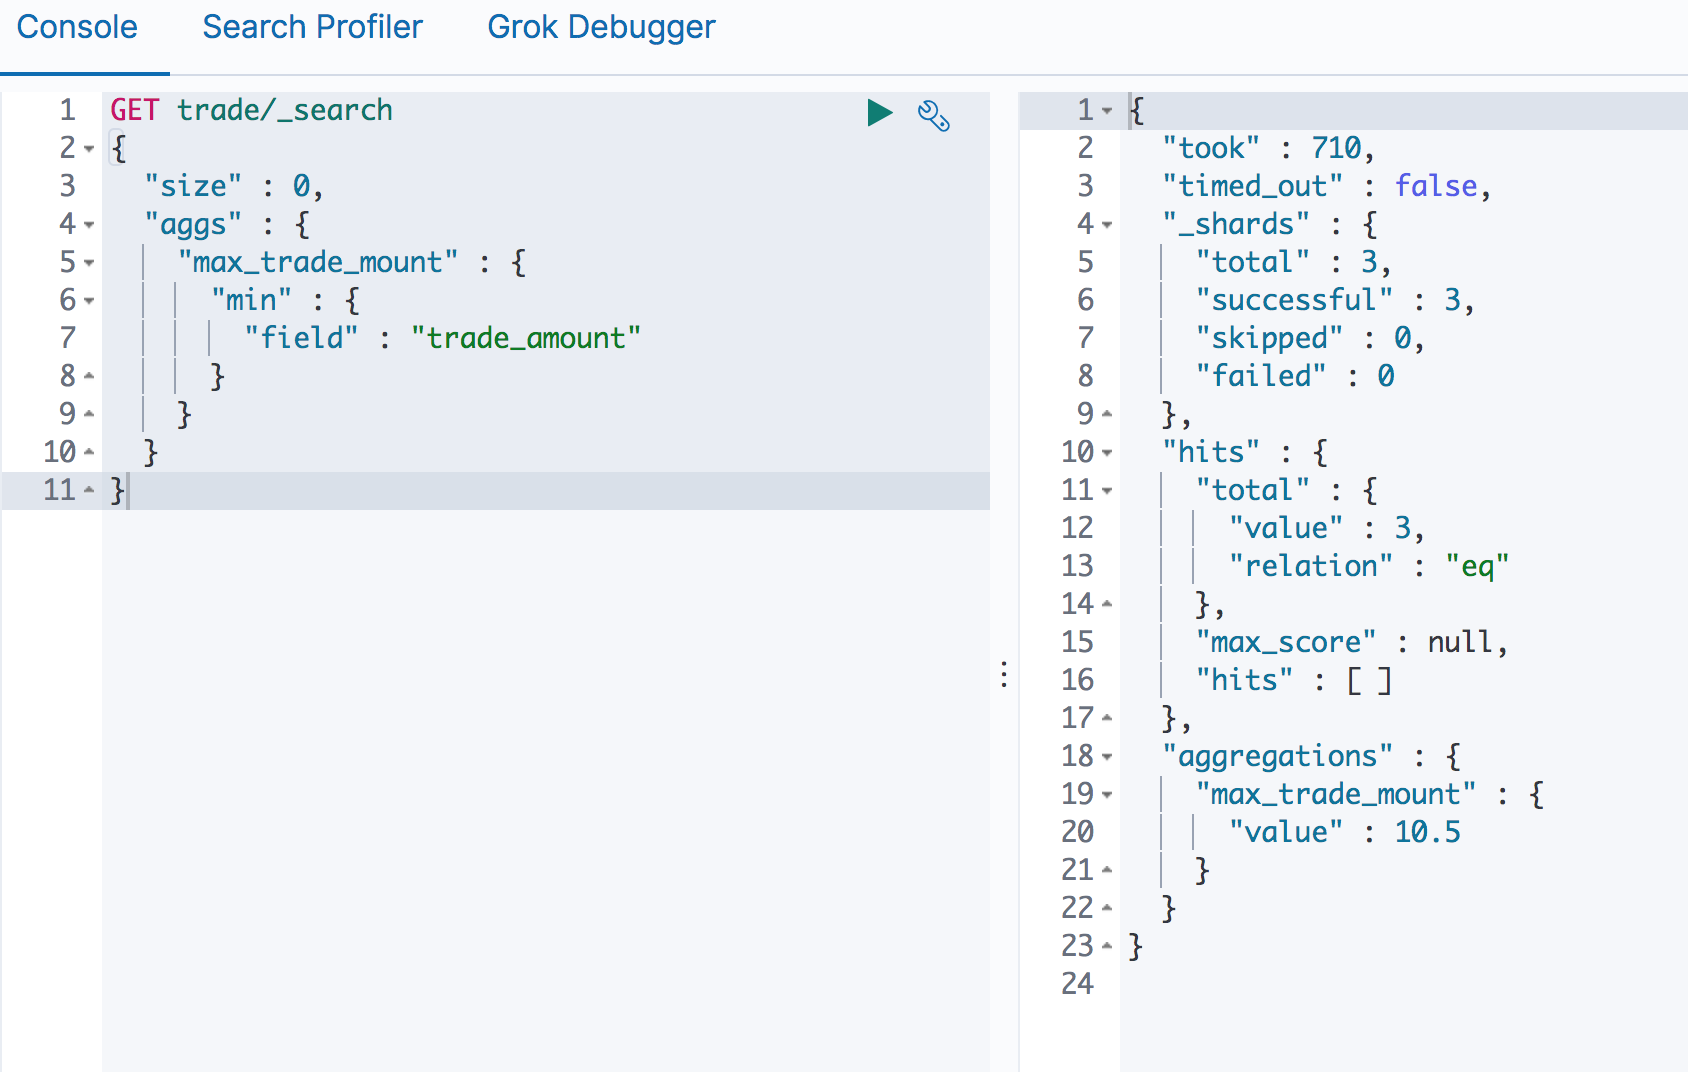
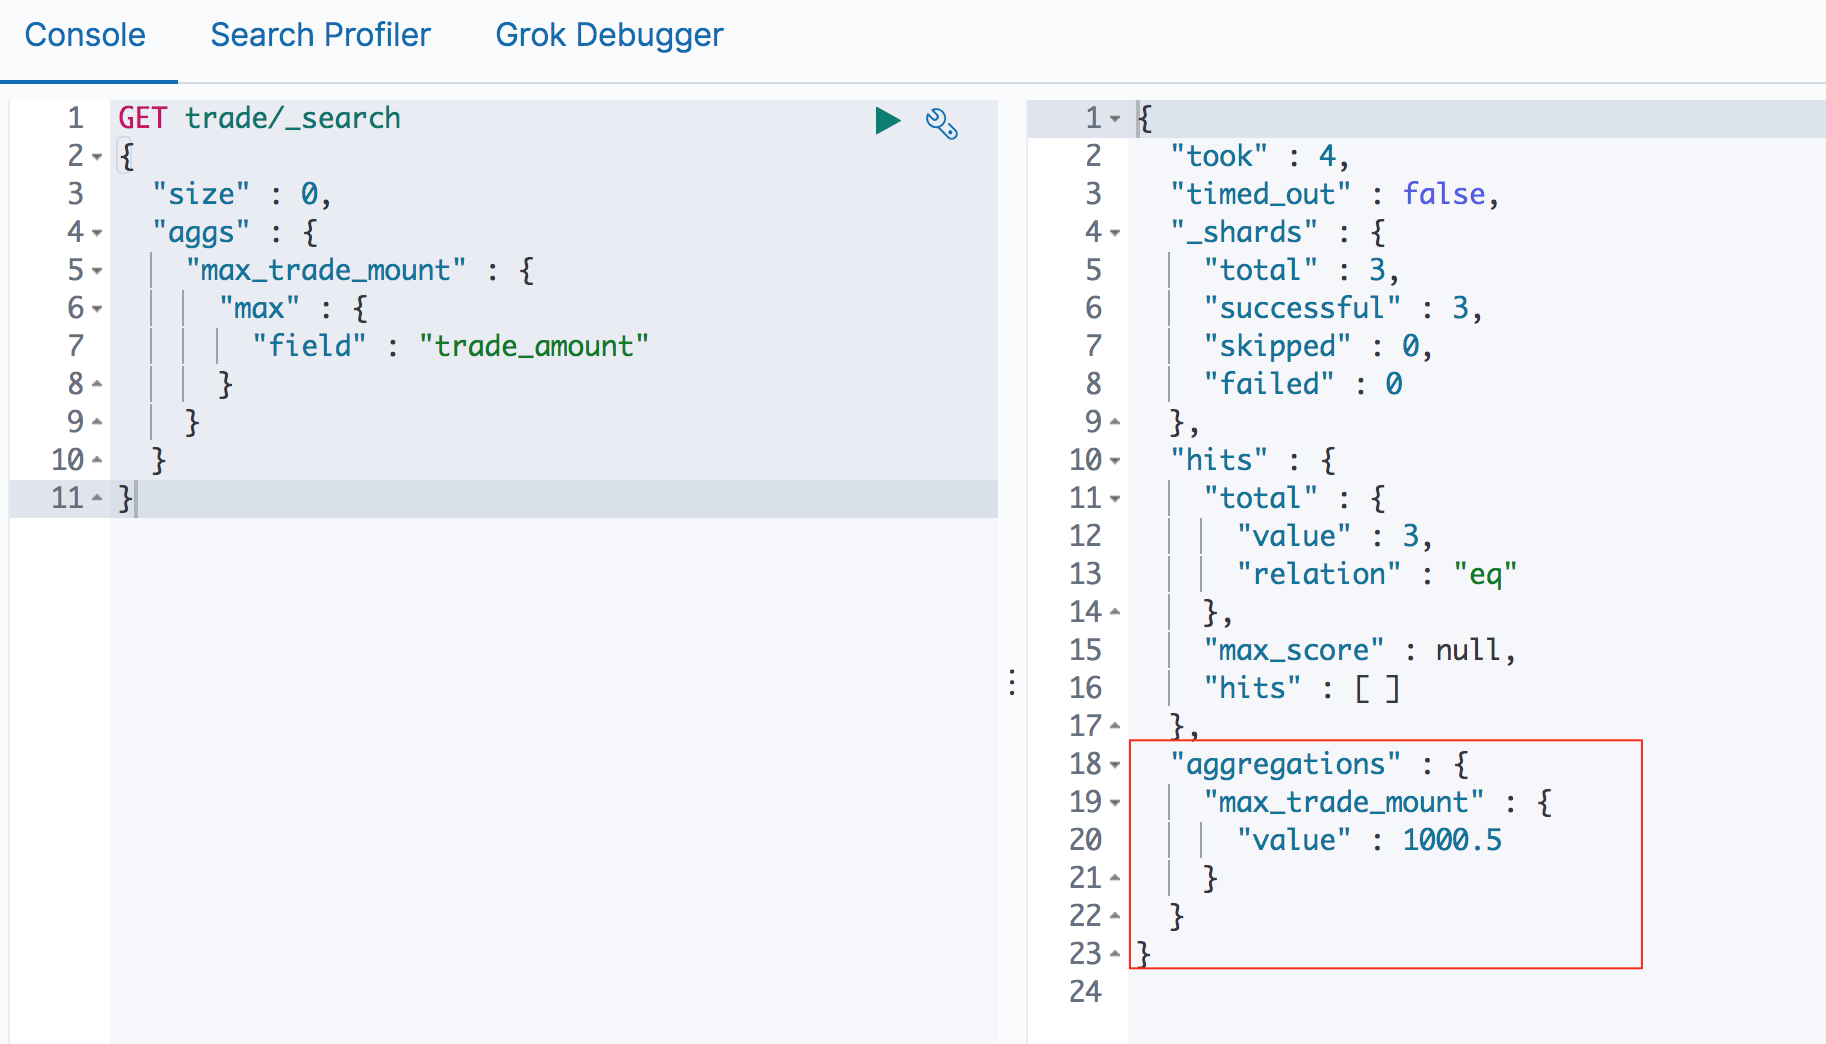
数据分析

Changed region(s): [[0.0, 0.0, 1.0, 0.9502], [0.8934, 0.7356, 0.9242, 0.7663], [0.8626, 0.5211, 0.8934, 0.5517]]

diff --git a/_posts/2019-12-06-es-data-analysis-20191206.md b/_posts/2019-12-06-es-data-analysis-20191206.md
@@ -2,7 +2,7 @@
 layout: post
 title: Elasticsearch数据分析
 categories: 大数据之elasticsearch 大数据之kibana
-tags: java Elasticsearch ELK Kibana 数据分析 索引 大数据 可视化分析 搜索 统计 概率 最大值 最小值 方差 标准差 中位数 搜索引擎 数据库索引
+tags: java Elasticsearch ELK Kibana 数据分析 索引 大数据 可视化分析 搜索 统计 概率 最大值 最小值 方差 标准差 中位数 搜索引擎 数据库索引 数据库 SQL 
 ---
 
 比如对于一个交易系统，你可能要统计这些维度的数据
@@ -174,7 +174,7 @@ GET trade/_search
   "size" : 0,
   "aggs" : {
     "max_trade_mount" : {
-      "min" : {
+      "max" : {
         "field" : "trade_amount"
       }
     }
@@ -190,6 +190,7 @@ GET trade/_search
 
 ```
 
+>关于ES 的查询和聚合分析，参考[]()
 
 ## 数据可视化
 
